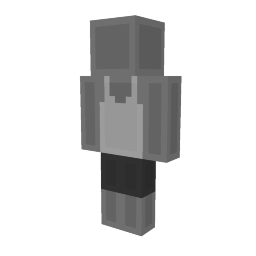
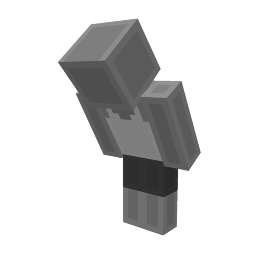
Updated emotes

Changed region(s): [[0.2188, 0.0625, 0.7812, 0.9375]]

diff --git a/README.md b/README.md
@@ -147,6 +147,7 @@ This repository is scheduled to update every 6 hours automatically. A raw versio
 | <img src="./images/ea25b3dc-9749-5e79-ae9c-2e929100721e.png" width="128" height="128" /> | Bouncy Sidejumps | ea25b3dc-9749-5e79-ae9c-2e929100721e |
 | <img src="./images/0b524099-7a5b-8cc8-f600-e9ff776b842a.png" width="128" height="128" /> | Bow | 0b524099-7a5b-8cc8-f600-e9ff776b842a |
 | <img src="./images/ddfa6f0e-88ca-46de-b189-2bd5b18e96a0.png" width="128" height="128" /> | Bow | ddfa6f0e-88ca-46de-b189-2bd5b18e96a0 |
+| <img src="./images/5df6377e-6327-c5f1-e5eb-a053ef6ed498.png" width="128" height="128" /> | Bowing | 5df6377e-6327-c5f1-e5eb-a053ef6ed498 |
 | <img src="./images/31e76724-b95a-0c49-c2e7-3f6f903836de.png" width="128" height="128" /> | Break Dance | 31e76724-b95a-0c49-c2e7-3f6f903836de |
 | <img src="./images/852cf616-7700-fd7d-1d64-d56afa707979.png" width="128" height="128" /> | Break Dance | 852cf616-7700-fd7d-1d64-d56afa707979 |
 | <img src="./images/b6e9822c-68d0-d7da-fe5a-92871092fdbc.png" width="128" height="128" /> | Break Dance | b6e9822c-68d0-d7da-fe5a-92871092fdbc |
@@ -173,7 +174,6 @@ This repository is scheduled to update every 6 hours automatically. A raw versio
 | <img src="./images/f3d7fe12-6f7d-2c61-48fe-1673b89cb59e.png" width="128" height="128" /> | Buzz Off | f3d7fe12-6f7d-2c61-48fe-1673b89cb59e |
 | <img src="./images/f68c433b-70ca-c41c-5548-b5abd167c040.png" width="128" height="128" /> | Bye Bye Bye | f68c433b-70ca-c41c-5548-b5abd167c040 |
 | <img src="./images/5b025702-94a7-e151-6902-0bb3ae15f1cd.png" width="128" height="128" /> | Bye bye bye | 5b025702-94a7-e151-6902-0bb3ae15f1cd |
-| <img src="./images/5df6377e-6327-c5f1-e5eb-a053ef6ed498.png" width="128" height="128" /> | C Emote | 5df6377e-6327-c5f1-e5eb-a053ef6ed498 |
 | <img src="./images/405d0578-4ad0-1108-3a55-89520739fa8c.png" width="128" height="128" /> | Calculated | 405d0578-4ad0-1108-3a55-89520739fa8c |
 | <img src="./images/9f5d4732-0513-4a0a-8ea2-b6b8d7587e74.png" width="128" height="128" /> | Calling a Dragon | 9f5d4732-0513-4a0a-8ea2-b6b8d7587e74 |
 | <img src="./images/308f742d-ff45-d537-9368-1afe54b88577.png" width="128" height="128" /> | Can't See Me | 308f742d-ff45-d537-9368-1afe54b88577 |
